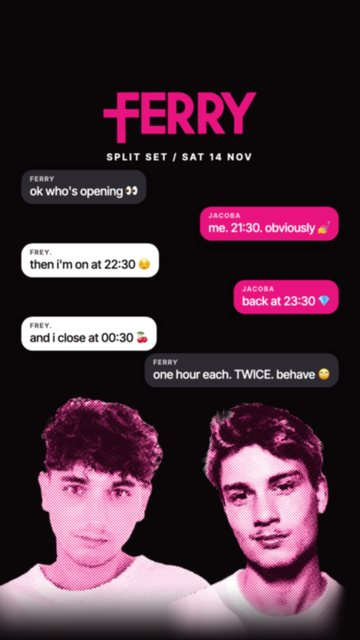
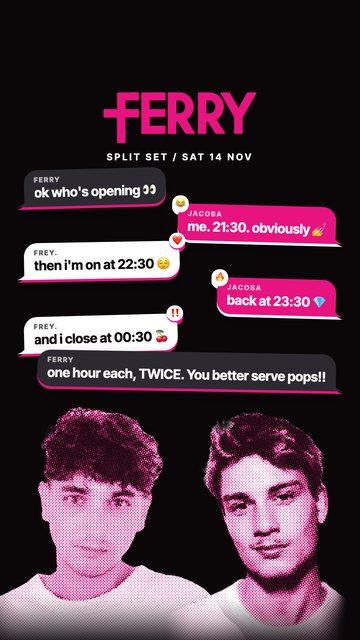
FREYcraft: Group chat bubbles pop (tails, hard shadow, reactions), friendlier last message

diff --git a/FREYcraft/index.html b/FREYcraft/index.html
@@ -63,8 +63,13 @@ main{flex:1;display:flex;align-items:center;justify-content:center;position:rela
 #bh{position:absolute;z-index:10000;width:26px;height:26px;background:#fff;border:4px solid #19d3ff;cursor:nwse-resize;display:none;touch-action:none}
 #rh{position:absolute;z-index:10000;border-radius:50%;background:#19d3ff;border:3px solid #fff;box-shadow:0 2px 8px rgba(0,0,0,.4);cursor:grab;display:none;touch-action:none}
 #rh::after{content:'';position:absolute;left:50%;top:100%;width:2px;height:var(--stem,40px);background:#19d3ff;transform:translateX(-50%)}
-.t-chat{font-weight:500;font-size:36px;line-height:1.15;padding:16px 26px 18px;border-radius:34px;white-space:nowrap;box-shadow:0 8px 20px rgba(0,0,0,.3)}
-.t-chat b{display:block;font-size:20px;letter-spacing:.14em;text-transform:uppercase;opacity:.75;margin-bottom:4px}
+.t-chat{font-weight:600;font-size:40px;line-height:1.12;letter-spacing:-.01em;padding:18px 30px 20px;border-radius:40px 40px 40px 10px;white-space:nowrap;filter:drop-shadow(0 8px 0 var(--pop,#0b0709)) drop-shadow(0 18px 22px rgba(0,0,0,.25))}
+.t-chat::after{content:'';position:absolute;left:-24px;bottom:0;width:56px;height:48px;background:inherit;clip-path:path('M56 0 L56 48 L0 48 C20 44 34 30 36 0 Z')}
+.t-chat.me{border-radius:40px 40px 10px 40px}
+.t-chat.me::after{left:auto;right:-24px;transform:scaleX(-1)}
+.t-chat b{display:block;font-size:21px;font-weight:800;letter-spacing:.14em;text-transform:uppercase;opacity:.7;margin-bottom:4px}
+.t-chat i{position:absolute;top:-24px;right:-18px;font-style:normal;font-size:30px;line-height:1;background:#fff;border-radius:30px;padding:8px 10px 9px;filter:drop-shadow(0 4px 0 var(--pop,#0b0709));font-family:'Apple Color Emoji','Segoe UI Emoji','Noto Color Emoji',sans-serif}
+.t-chat.me i{right:auto;left:-18px}
 .t-emoji{font-size:120px;line-height:1;font-family:'Apple Color Emoji','Segoe UI Emoji','Noto Color Emoji',sans-serif}
 #guides{position:absolute;inset:0;pointer-events:none;z-index:9999}
 .safe{position:absolute;left:0;right:0;background:rgba(25,211,255,.14);border:0 dashed #19d3ff}
@@ -365,7 +370,7 @@ function lineEls(o={}){
 }
 const label=(html,x,y,bg,col,r=0,fs=34,extra={})=>T(Object.assign({name:'Label',cls:'t-label',html,x,y,anchor:'center',bg,color:col,r,st:`font-size:${fs}px`},extra));
 const emoji=(ch,x,y,s=1,r=0)=>T({name:'Emoji '+ch,cls:'t-emoji',html:ch,x,y,anchor:'center',s,r});
-const chat=(name,msg,x,y,bg,col,anchor='left')=>T({name:'Chat '+name,cls:'t-chat',html:`<b>${name}</b>${msg}`,x,y,anchor,bg,color:col});
+const chat=(name,msg,x,y,bg,col,anchor='left',re='',r=0)=>T({name:'Chat '+name,cls:'t-chat',html:`<b>${name}</b>${msg}${re?`<i>${re}</i>`:''}`,x,y,anchor,bg,color:col,r});
 const DOTS={mode:'cmyk',dot:6,angle:45,contrast:20,bright:-6,shrink:1,soften:1,fade:92,outline:0,oc:'#ffffff'};
 
 const TEMPLATES=[
@@ -440,13 +445,13 @@ const TEMPLATES=[
   {name:'Group chat',sub:'who opens?',preset:'black',ps:{...DOTS,mode:'duo'},els:()=>[
     {id:'ferry',name:'FERRY logo',type:'img',src:'ferry-pink.png',x:310,y:276,w:460},
     T({id:'cap',name:'Date line',cls:'t-cap',html:'Split set / Sat 14 Nov',x:540,y:452,anchor:'center',color:'#fff'}),
-    chat('FERRY','ok who\'s opening 👀',64,510,'#2c2a30','#fff'),
-    chat('JACOBA','me. 21:30. obviously 💅',1016,620,PINK,'#fff','right'),
-    chat('FREY.','then i\'m on at 22:30 😌',64,730,'#fff',INK),
-    chat('JACOBA','back at 23:30 💎',1016,840,PINK,'#fff','right'),
-    chat('FREY.','and i close at 00:30 🍒',64,950,'#fff',INK),
-    chat('FERRY','one hour each. TWICE. behave 🙄',1016,1060,'#2c2a30','#fff','right'),
-    photo('frey',290,1470,330),photo('jacoba',790,1470,330)]},
+    chat('FERRY','ok who\'s opening 👀',72,506,'#2c2a30','#fff','left','',-1.5),
+    chat('JACOBA','me. 21:30. obviously 💅',1008,616,PINK,'#fff','right','😂',1.5),
+    chat('FREY.','then i\'m on at 22:30 😌',72,726,'#fff',INK,'left','❤',-1),
+    chat('JACOBA','back at 23:30 💎',1008,836,PINK,'#fff','right','🔥',1.5),
+    chat('FREY.','and i close at 00:30 🍒',72,946,'#fff',INK,'left','‼',-1.5),
+    chat('FERRY','one hour each, TWICE. You better serve pops!!',1008,1056,'#2c2a30','#fff','right','',1),
+    photo('frey',290,1500,330),photo('jacoba',790,1500,330)]},
 ];
 
 /* ---------------- state ---------------- */
@@ -500,6 +505,7 @@ function render(){
       let col=e.color;
       if(!col){ if(e.role==='cap') col=p.cap; else if(side) col=side==='light'?INK:'#fff'; else col=p.cap; }
       d.style.color=col; if(e.bg) d.style.background=e.bg;
+      if(e.cls==='t-chat'){ const dark=p.cap==='#fff'||p.cap==='#ffffff'; d.style.setProperty('--pop',!dark?INK:((e.bg||'').toLowerCase()===PINK?'#fff':PINK)); }
       const t2=d.querySelector('[data-t2]'); if(t2) t2.style.color=PINK;
     }
     layer.appendChild(d); place(d,e);
@@ -512,6 +518,7 @@ function place(d,e){
   if(e.anchor==='right') x=e.x-d.offsetWidth*s;
   const sc=e.type==='photo'?1:s; const hw=d.offsetWidth*sc/2, hh=d.offsetHeight*sc/2;
   d.style.transform=`translate(${x}px,${e.y}px) translate(${hw}px,${hh}px) rotate(${r}deg) translate(${-hw}px,${-hh}px) scale(${sc})`;
+  if(e.cls==='t-chat') d.classList.toggle('me',x+d.offsetWidth*s/2>W/2);
   if(e.id===sel) placeHandle();
 }
 const rh=document.getElementById('rh'), bh=document.getElementById('bh');
